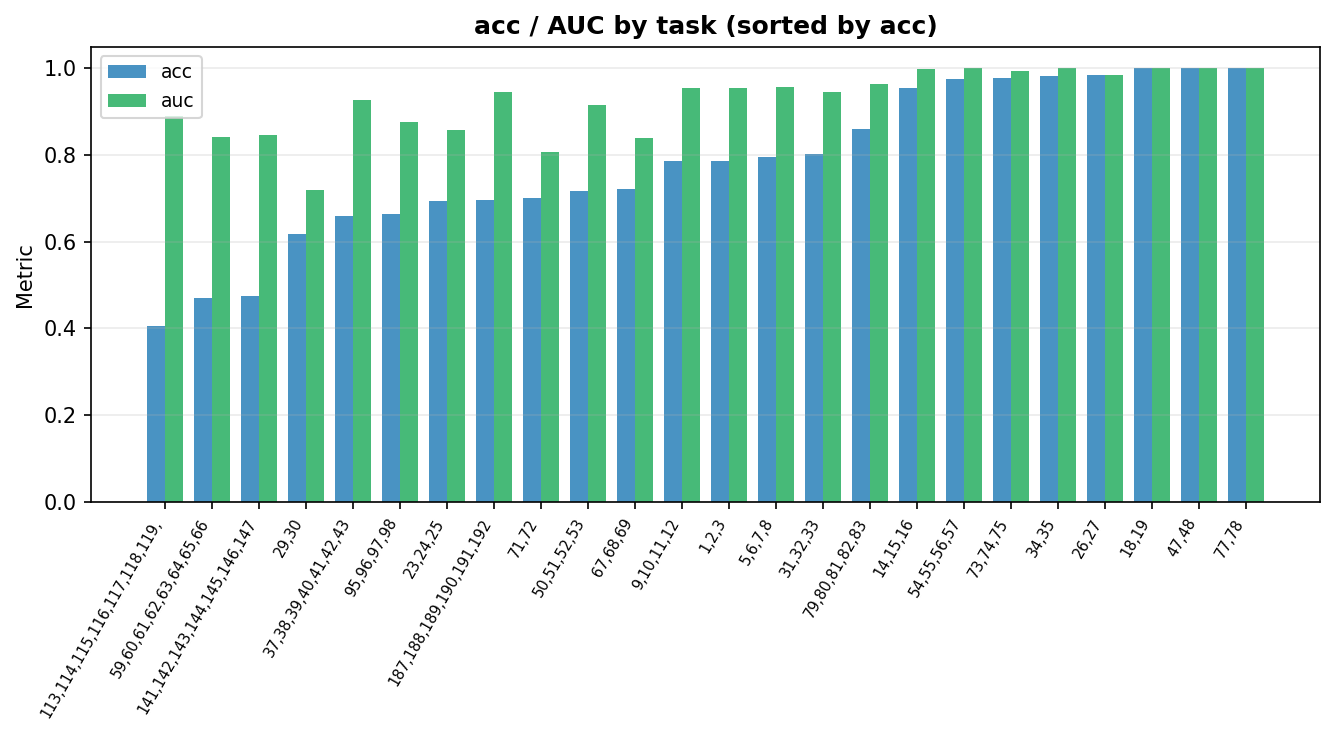
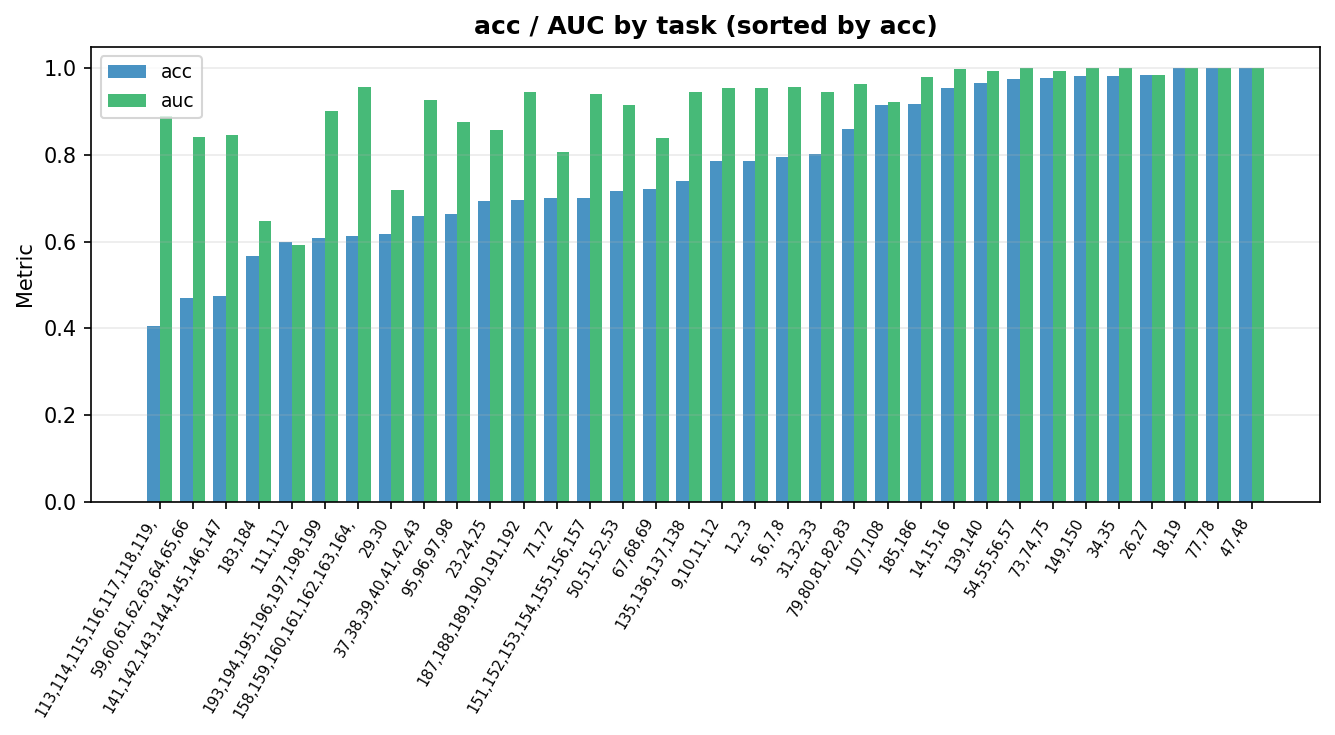
Complete BC-LLM Wave A (34/34) and fix MH weight NaN handling.
Remove debugger breakpoint on invalid selection weights; refresh mentor report and charts with full-task averages; tolerate locked DuckDB during summarize.

diff --git a/src/bc-llm/src/concept_learner_model.py b/src/bc-llm/src/concept_learner_model.py
@@ -393,18 +393,31 @@ class ConceptLearnerModel:
         # logging.info("Candidate concept weights %s", candidate_concept_dicts)
 
         # randomly choose a new concept (gamma_b) based on its weight
-        selection_weights = np.array([concept_dict["forward_weight"] for concept_dict in candidate_concept_dicts])
-        selection_weights /= np.sum(selection_weights)
-        try:
-            new_concept_idx = np.random.choice(
-                    len(selection_weights), 
-                    size=1, 
-                    replace=False, 
-                    p=selection_weights
-                    )[0]
-        except Exception as e:
-            print(e)
-            breakpoint()
+        selection_weights = np.array(
+            [float(concept_dict.get("forward_weight", 0.0)) for concept_dict in candidate_concept_dicts],
+            dtype=np.float64,
+        )
+        weight_sum = np.nansum(selection_weights)
+        if not np.isfinite(weight_sum) or weight_sum <= 0:
+            logging.warning(
+                "Invalid forward_weight sum (%s) for %d candidates; using uniform proposal weights",
+                weight_sum,
+                len(candidate_concept_dicts),
+            )
+            selection_weights = np.full(len(candidate_concept_dicts), 1.0 / len(candidate_concept_dicts))
+        else:
+            selection_weights = selection_weights / weight_sum
+            selection_weights = np.nan_to_num(selection_weights, nan=0.0, posinf=0.0, neginf=0.0)
+            total = selection_weights.sum()
+            if total <= 0:
+                logging.warning("Normalized selection weights are all zero; using uniform proposal weights")
+                selection_weights = np.full(len(candidate_concept_dicts), 1.0 / len(candidate_concept_dicts))
+            else:
+                selection_weights /= total
+
+        new_concept_idx = int(
+            np.random.choice(len(selection_weights), size=1, replace=False, p=selection_weights)[0]
+        )
 
         new_concept = candidate_concept_dicts[new_concept_idx]
         logging.info("Selected new candidate concept %s (%sselection_weights)", new_concept, selection_weights)

diff --git a/scripts/llm_experiments/summarize_bc_llm_paper_wave.py b/scripts/llm_experiments/summarize_bc_llm_paper_wave.py
@@ -31,7 +31,11 @@ def load_task_list(path: Path) -> list[str]:
 def cache_rows(db_path: Path) -> int:
     if not db_path.is_file():
         return 0
-    con = duckdb.connect(str(db_path), read_only=True)
+    try:
+        con = duckdb.connect(str(db_path), read_only=True)
+    except duckdb.IOException:
+        # Another train_* process may hold the cache lock.
+        return -1
     try:
         return int(con.execute("SELECT COUNT(*) FROM llm_cache").fetchone()[0])
     except duckdb.CatalogException:
@@ -52,7 +56,8 @@ def main() -> int:
         task_dir = WAVE_ROOT / "tasks" / task
         status = (task_dir / "status.txt").read_text().strip() if (task_dir / "status.txt").is_file() else "—"
         calls = cache_rows(task_dir / "api_cache.duckdb")
-        total_calls += calls
+        if calls >= 0:
+            total_calls += calls
         acc = auc = None
         res = task_dir / "results.csv"
         if res.is_file():
@@ -142,8 +147,9 @@ def main() -> int:
     for _, r in df.sort_values("task").iterrows():
         acc_s = f"{r['acc']:.4f}" if r["acc"] is not None and r["acc"] == r["acc"] else "—"
         auc_s = f"{r['auc']:.4f}" if r["auc"] is not None and r["auc"] == r["auc"] else "—"
+        cache_s = "—" if r["cache_calls"] is None or r["cache_calls"] < 0 else str(int(r["cache_calls"]))
         lines.append(
-            f"| {r['task']} | {'yes' if r['wave_b'] else 'no'} | {r['status']} | {acc_s} | {auc_s} | {int(r['cache_calls'])} |"
+            f"| {r['task']} | {'yes' if r['wave_b'] else 'no'} | {r['status']} | {acc_s} | {auc_s} | {cache_s} |"
         )
 
     OUT.parent.mkdir(parents=True, exist_ok=True)
